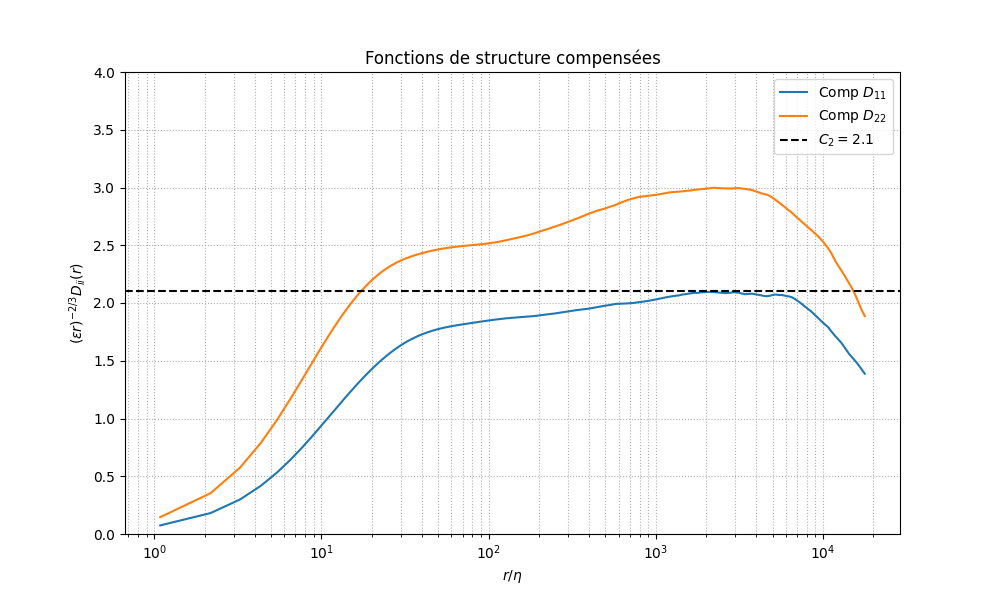
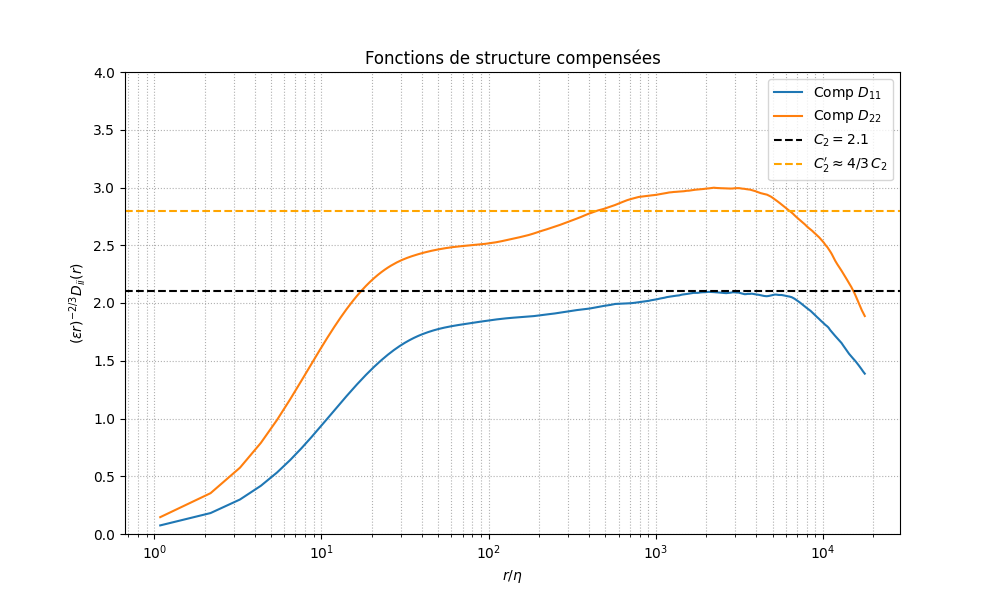
plots

Changed region(s): [[0.775, 0.15, 0.899, 0.3]]

diff --git a/srcipts/additionnaly.py b/srcipts/additionnaly.py
@@ -53,6 +53,7 @@ def plot_sf_comp(r_values, D11_avg, D22_avg, eps, eta, results_path):
     plt.semilogx(r_over_eta, compensated_D11, label='Comp $D_{11}$')
     plt.semilogx(r_over_eta, compensated_D22, label='Comp $D_{22}$')
     plt.axhline(2.1, color='k', linestyle='--', label='$C_2 = 2.1$')
+    plt.axhline(2.1 * 4/3, color='orange', linestyle='--', label=r"$C_2^{\prime} \approx 4/3\, C_2$")
     plt.title('Fonctions de structure compensées')
     plt.xlabel('$r / \\eta$')
     plt.ylabel('$(\\epsilon r)^{-2/3} D_{ii}(r)$')
@@ -117,7 +118,7 @@ def plot_spectra_comp(k_values, E11_avg, E22_avg, globals_dict, results_path):
     plt.semilogx(k_eta, compensated_E22, label='Compensé $E_{22}$')
     
     # Constantes théoriques C1 et C1' = 4/3 * C1
-    C1_val = 1.5 # (valeur souvent utilisée pour CK dans E(k)) * 18/55
+    C1_val = 0.55
     C1_prime_val = (4/3) * C1_val
     plt.axhline(C1_val, color='k', linestyle='--', label=f'$C_1 \\approx {C1_val:.2f}$')
     plt.axhline(C1_prime_val, color='k', linestyle='-.', label=f"$C'_1 \\approx {C1_prime_val:.2f}$")
